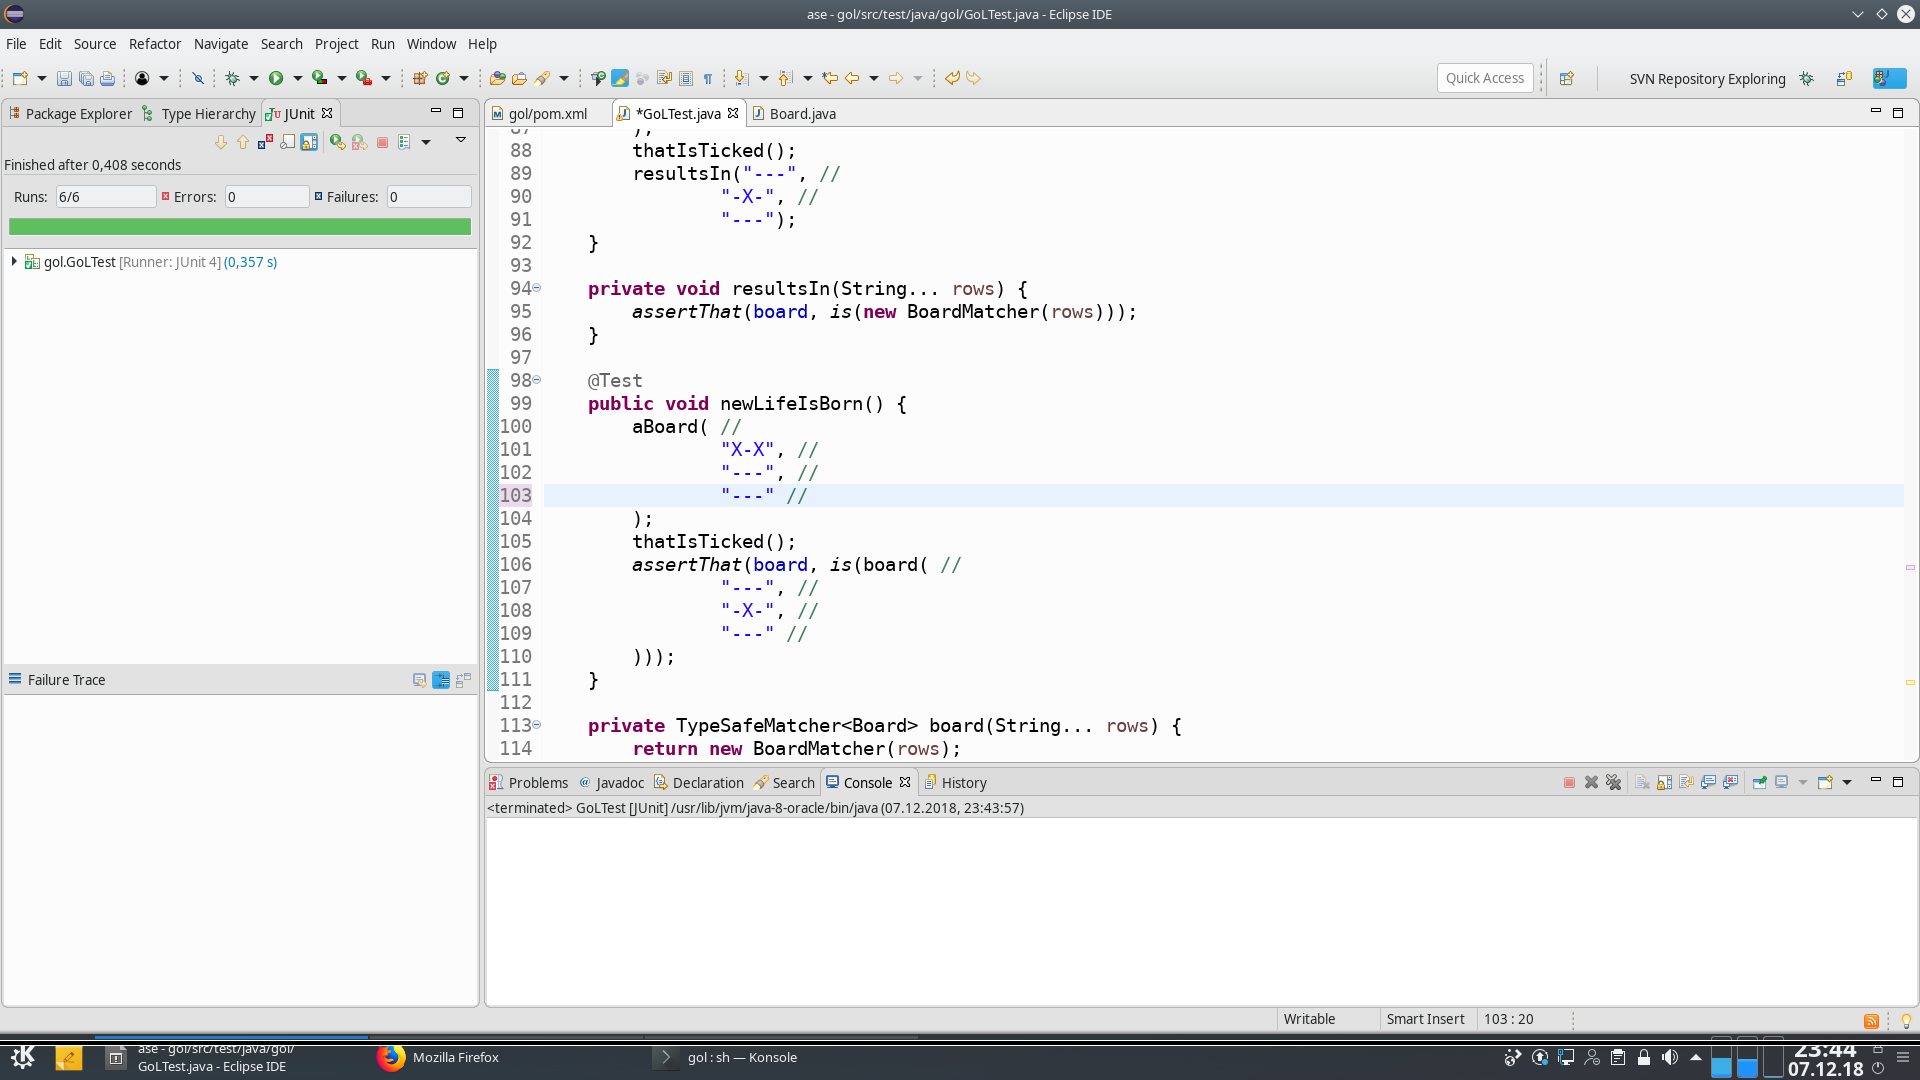
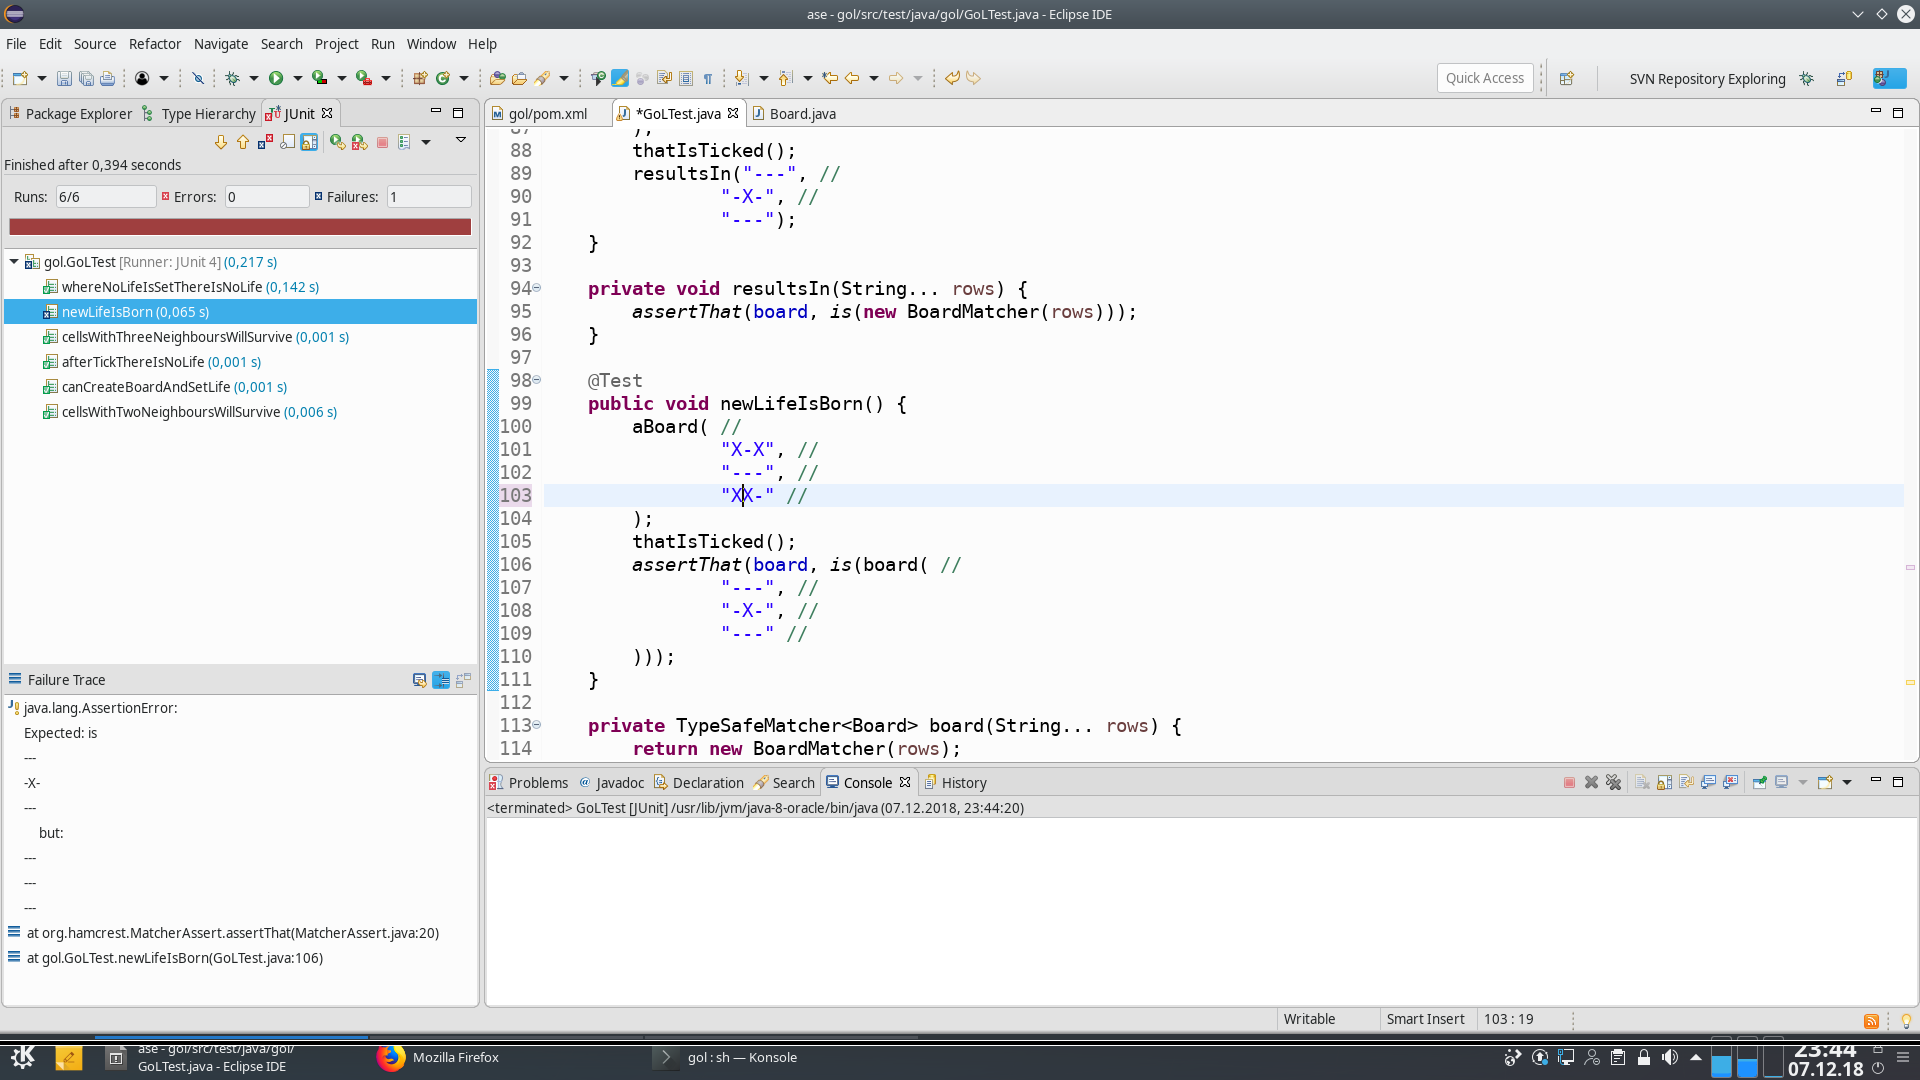
autocommit on change

Changed region(s): [[0.0, 0.1833, 0.25, 0.3972], [0.0, 0.8556, 0.2188, 0.9167], [0.0, 0.6417, 0.0938, 0.6722]]

diff --git a/src/test/java/gol/GoLTest.java b/src/test/java/gol/GoLTest.java
@@ -100,7 +100,7 @@ public class GoLTest {
 		aBoard( //
 				"X-X", //
 				"---", //
-				"---" //
+				"XX-" //
 		);
 		thatIsTicked();
 		assertThat(board, is(board( //
